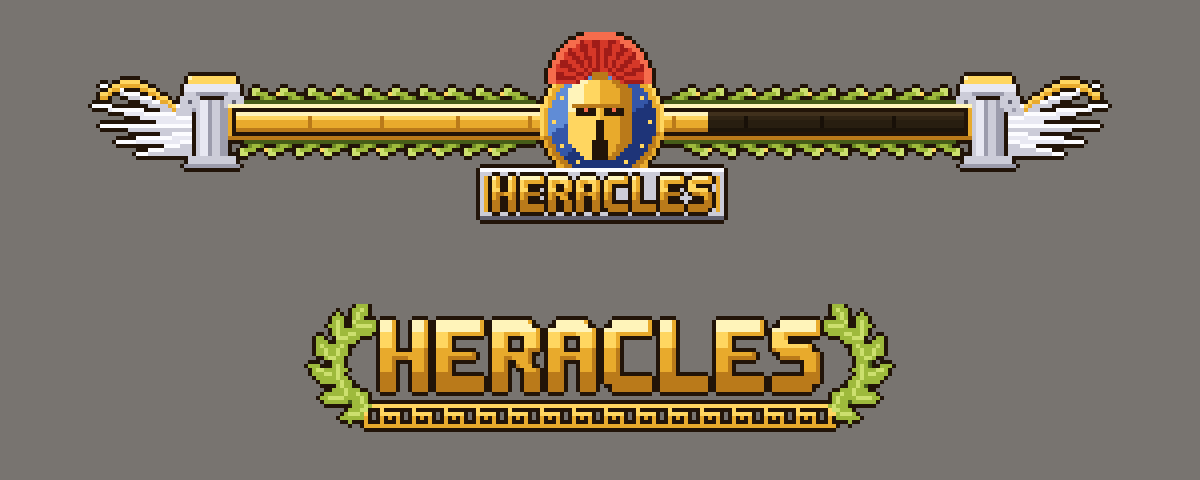
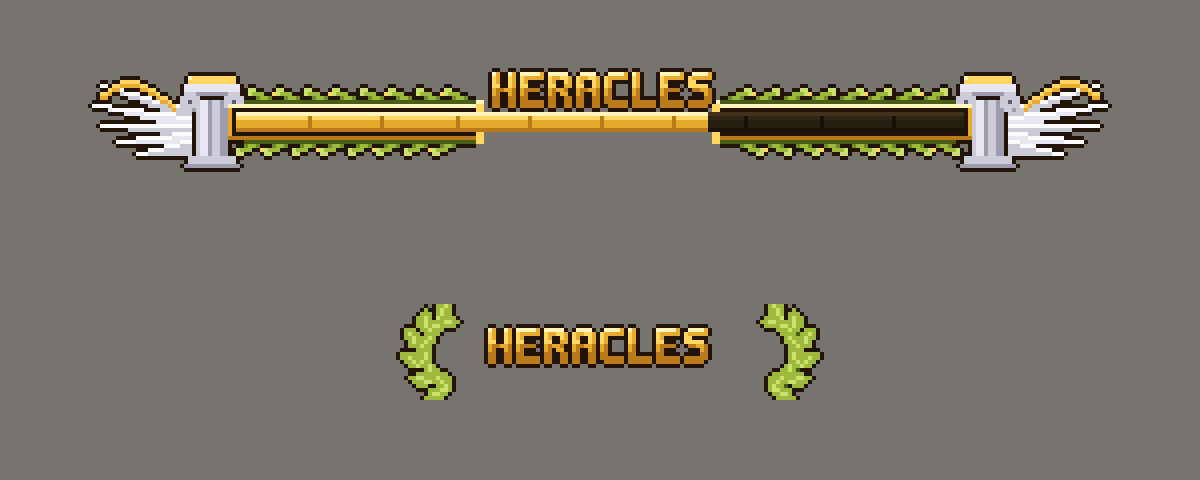
Heracles funciona con y sin texturas; apariciones mas largas
Sin el resource pack la bossbar, el titulo y los sonidos son los de antes;
con el pack se ven el marco, los laureles y los sonidos propios.

- Bossbar: el titulo vuelve a ser &6&lHERACLES (Style SEGMENTED_10). Lleva
  delante \u200c y detras \u2001, que no se ven en vanilla; con el pack
  de ItemsAdder son las dos mitades del marco olimpico, a los lados del
  nombre. El marco ya no lleva escudo ni placa en el centro (ahi va el
  nombre) y la barra ya no tiene el hueco del centro
- Titulo de aparicion: vuelve a ser '⚔ HERACLES ⚔'; con el pack lleva
  laureles a los lados (\u2002 y \u2003)
- Sonidos: cada sonido propio va junto al sonido vanilla de antes. Sin pack
  se oye el de antes; con pack se oyen los dos
- Los titulos de aparicion de los 16 bosses duran 15 s (antes 6-9 s)

Changed region(s): [[0.2467, 0.625, 0.7708, 0.9062], [0.185, 0.0625, 0.6167, 0.4688]]

diff --git a/tools/generate_hud.py b/tools/generate_hud.py
@@ -2,18 +2,30 @@
 """
 Genera el HUD olimpico de Heracles (pixel art a 1x):
 
-  - bossbar_frame.png  marco de la bossbar (font image de ItemsAdder que va en
-                       el titulo de la bossbar y se dibuja ALREDEDOR de la barra)
-  - title_logo.png     logo "HERACLES" para el titulo en pantalla
+  - bossbar_left.png / bossbar_right.png   las dos mitades del marco de la
+                       bossbar (font images de ItemsAdder)
+  - title_laurel_left.png / title_laurel_right.png   laureles del titulo
   - yellow_progress.png / yellow_background.png  barra vanilla (182x5)
   - preview/hud_preview.png  vista previa
 
+Funciona CON y SIN resource pack:
+  Titulo de la bossbar:  "&f\u200c&6&lHERACLES&f\u2001"
+  Titulo en pantalla:    "&f\u2002&6⚔ &e&lHERACLES &6⚔&f\u2003"
+  \u200c (ancho cero) y \u2001/\u2002/\u2003 (espacios) no se ven en vanilla,
+  asi que SIN pack el texto se ve exactamente igual que antes. CON pack,
+  ItemsAdder convierte esos caracteres en imagenes: las dos mitades del marco
+  a los lados del nombre y los laureles a los lados del titulo.
+
 Como encaja el marco con la barra (Minecraft 1.21):
-  la barra se dibuja en (centro - 91, y) y el titulo en y - 9, centrado.
-  Un glyph con ascent A se dibuja con su borde superior en y - 2 - A.
-  El hueco de la barra esta en la fila BAR_Y del png -> A = BAR_Y - 2.
-  El png mide FRAME_W (par) y el glyph avanza FRAME_W + 1, asi que el hueco
-  empieza en x = (FRAME_W - 182) / 2.
+  la barra se dibuja en (centro - 91, y) y el titulo en y - 9, centrado
+  (x = centro - ancho/2). Un glyph con ascent A se dibuja con su borde
+  superior en y - 2 - A; el hueco de la barra esta en la fila BAR_Y del png
+  -> A = BAR_Y - 2. Un glyph avanza (ultima columna visible + 1) + 1, por eso
+  cada mitad lleva un pixel casi transparente en su ultima columna.
+  "HERACLES" en negrita mide TEXT_W = 8 x 7 = 56 px:
+    [mitad izq. 90 px, avanza 91][HERACLES 56][mitad der. 91 px, avanza 92]
+    total 239 -> empieza en centro - 119 = columna 0 del marco completo,
+    asi que la barra (columna BAR_X = 28) cae en centro - 91.
 
 Uso: python3 tools/generate_hud.py
 """
@@ -31,7 +43,10 @@ FRAME_W, FRAME_H = 256, 48
 BAR_W, BAR_H = 182, 5
 BAR_X = (FRAME_W - BAR_W) // 2      # 37
 BAR_Y = 20                           # -> y_position (ascent) = 18
-CX = FRAME_W // 2
+CX = BAR_X + BAR_W // 2              # 119: centro de la barra en el marco
+TEXT_W = 56                          # "&lHERACLES": 8 letras de 6 px + 1 de negrita
+LEFT_W = CX - TEXT_W // 2 - 1        # 90: columnas 0..89 -> mitad izquierda
+RIGHT_X = LEFT_W + 1 + TEXT_W        # 147: desde aqui -> mitad derecha
 SHIELD_R = 15
 
 # ----------------------------------------------------------------- paleta
@@ -306,63 +321,47 @@ def bossbar_frame():
     d.rectangle([x0 - 1, y0 - 1, x1 + 1, y1 + 1], fill=OUT)
     d.rectangle([x0, y0, x1, y1], fill=(0, 0, 0, 0))
 
-    # laureles desde el emblema hacia las columnas
-    laurel_branch(d, CX + 16, x1 - 1, y0 - 3, y1 + 3)
-    laurel_branch(d, CX - 17, x0 + 1, y0 - 3, y1 + 3)
-
-    # emblema: escudo + casco
-    shield(img, CX, y0 + 2, SHIELD_R)
-    helmet(img, CX, 0)
-
-    # placa de marmol con el nombre
-    pw, ph = 61, 13
-    px0, py0 = CX - pw // 2, FRAME_H - ph - 1
-    d.rectangle([px0, py0, px0 + pw - 1, py0 + ph - 1], fill=MARBLE[2] + (255,))
-    d.line([(px0, py0), (px0 + pw - 1, py0)], fill=MARBLE[4] + (255,))
-    d.line([(px0, py0 + ph - 1), (px0 + pw - 1, py0 + ph - 1)], fill=MARBLE[0] + (255,))
-    for xx in (px0 + 1, px0 + pw - 2):
-        d.line([(xx, py0 + 2), (xx, py0 + ph - 3)], fill=GOLD[2] + (255,))
+    # laureles desde el nombre hacia las columnas
+    laurel_branch(d, RIGHT_X + 2, x1 - 1, y0 - 3, y1 + 3)
+    laurel_branch(d, LEFT_W - 3, x0 + 1, y0 - 3, y1 + 3)
 
     outline(img)
-    # el contorno no debe invadir el hueco de la barra (salvo bajo el escudo,
-    # que tiene que quedar opaco)
-    d.rectangle([x0, y0, CX - SHIELD_R - 1, y1], fill=(0, 0, 0, 0))
-    d.rectangle([CX + SHIELD_R + 1, y0, x1, y1], fill=(0, 0, 0, 0))
-    paste_text(img, "HERACLES", CX - 27, py0 + 2)
+    # el contorno no debe invadir el hueco de la barra
+    d.rectangle([x0, y0, x1, y1], fill=(0, 0, 0, 0))
+    # hueco central para el nombre (lo escribe Minecraft) con remates dorados
+    d.rectangle([LEFT_W, 0, RIGHT_X - 1, FRAME_H - 1], fill=(0, 0, 0, 0))
+    for x in (LEFT_W - 2, RIGHT_X):
+        d.rectangle([x, y0 - 3, x + 1, y1 + 3], fill=GOLD[3] + (255,))
+        d.rectangle([x, y0 - 3, x + 1, y0 - 3], fill=GOLD[4] + (255,))
     return img
 
 
-def title_logo():
-    """Logo para title{} (se ve 4x mas grande en pantalla)."""
-    w, h = 176, 32
+def half(img, x0, x1):
+    """Recorta una mitad del marco y fija su ancho con un pixel casi invisible."""
+    out = img.crop((x0, 0, x1, img.height))
+    out.putpixel((out.width - 1, out.height - 1), (0, 0, 0, 1))
+    return out
+
+
+def laurel_side(side):
+    """Media corona de laurel para un lado del titulo (side -1 izq., 1 der.)."""
+    w, h = 24, 24
     img = Image.new("RGBA", (w, h))
     d = ImageDraw.Draw(img)
-    tw = 8 * 12 + 7 * 2
-    tx = (w - tw) // 2
-    # meandro debajo
-    for x in range(tx - 4, tx + tw + 4):
-        k = (x - tx) % 8
-        col = [5, 1, 1, 1, 5, 5, 5, 5][k]
-        for y in range(25, 31):
-            on = y in (25, 30) or (k == 0) or (k == 4 and y > 26) or (y == 27 and k in (1, 2, 3, 4)) or (k == 2 and y == 28)
-            if on:
-                d.point((x, y), fill=GOLD[3 if y < 28 else 2] + (255,))
-    # media corona de laurel a cada lado: tallo en arco y hojas en pareja
-    for side in (-1, 1):
-        wx = w // 2 + side * (tw // 2 + 1)
-        R = 11
-        for i in range(40):
-            phi = math.radians(-75 + 150 * i / 39)
-            d.point((wx + side * round(R * math.cos(phi)), 15 + round(R * math.sin(phi))), fill=LEAF[0] + (255,))
-        for i in range(6):
-            phi = math.radians(-60 + 140 * i / 5)
-            x = wx + side * R * math.cos(phi)
-            y = 15 + R * math.sin(phi)
-            up = math.degrees(math.atan2(-math.cos(phi), side * math.sin(phi)))   # tangente hacia arriba
-            leaf_poly(d, x, y, up + side * 35, 7, 3)
-            leaf_poly(d, x, y, up - side * 35, 6, 3)
+    wx = w - 4 if side < 0 else 3
+    R = 9
+    for i in range(40):
+        phi = math.radians(-75 + 150 * i / 39)
+        d.point((wx + side * round(R * math.cos(phi)), 12 + round(R * math.sin(phi))), fill=LEAF[0] + (255,))
+    for i in range(6):
+        phi = math.radians(-60 + 140 * i / 5)
+        x = wx + side * R * math.cos(phi)
+        y = 12 + R * math.sin(phi)
+        up = math.degrees(math.atan2(-math.cos(phi), side * math.sin(phi)))
+        leaf_poly(d, x, y, up + side * 35, 6, 3)
+        leaf_poly(d, x, y, up - side * 35, 5, 3)
     outline(img)
-    paste_text(img, "HERACLES", tx, 4, scale=2)
+    img.putpixel((w - 1, h - 1), (0, 0, 0, 1))
     return img
 
 
@@ -380,12 +379,6 @@ def bar_sprites():
             sx = round(BAR_W * k / 10)
             for y in range(1, BAR_H - 1):
                 p[sx, y] = notch + (255,)
-        # hueco transparente bajo el escudo: Minecraft 1.21.6+ pinta la barra
-        # ENCIMA del titulo, asi que sin hueco la barra tapa el casco
-        gap = CX - BAR_X
-        for x in range(gap - SHIELD_R, gap + SHIELD_R + 1):
-            for y in range(BAR_H):
-                p[x, y] = (0, 0, 0, 0)
         return img
 
     return make(prog_rows, GOLD[1]), make(back_rows, (24, 16, 8))
@@ -394,22 +387,36 @@ def bar_sprites():
 def main():
     FONT_DIR.mkdir(parents=True, exist_ok=True)
     BAR_DIR.mkdir(parents=True, exist_ok=True)
-    frame, logo = bossbar_frame(), title_logo()
+    frame = bossbar_frame()
+    left, right = half(frame, 0, LEFT_W), half(frame, RIGHT_X, FRAME_W)
     prog, back = bar_sprites()
-    frame.save(FONT_DIR / "bossbar_frame.png")
-    logo.save(FONT_DIR / "title_logo.png")
+    left.save(FONT_DIR / "bossbar_left.png")
+    right.save(FONT_DIR / "bossbar_right.png")
+    laurel_side(-1).save(FONT_DIR / "title_laurel_left.png")
+    laurel_side(1).save(FONT_DIR / "title_laurel_right.png")
     prog.save(BAR_DIR / "yellow_progress.png")
     back.save(BAR_DIR / "yellow_background.png")
 
-    # vista previa (escala x4): bossbar al 65 % + logo
+    # comprobacion de la alineacion (ver docstring)
+    total = (left.width + 1) + TEXT_W + (right.width + 1)
+    assert -(total // 2) + BAR_X == -91, "el marco no cuadra con la barra"
+    assert left.width + 1 + TEXT_W == RIGHT_X, "la mitad derecha no empieza tras el nombre"
+
+    # vista previa (escala x4): bossbar al 65 % con el nombre + titulo
     sw = 300
     scene = Image.new("RGBA", (sw, 120), (120, 116, 112, 255))
-    fx = sw // 2 - FRAME_W // 2
-    bx = fx + BAR_X
-    scene.alpha_composite(frame, (fx, 8))
+    bx = sw // 2 - 91
+    fx = bx - BAR_X
+    scene.alpha_composite(left, (fx, 8))
+    scene.alpha_composite(right, (fx + RIGHT_X, 8))
     scene.alpha_composite(back, (bx, 8 + BAR_Y))
     scene.alpha_composite(prog.crop((0, 0, round(BAR_W * 0.65), BAR_H)), (bx, 8 + BAR_Y))
-    scene.alpha_composite(logo, (sw // 2 - logo.width // 2, 76))
+    paste_text(scene, "HERACLES", fx + LEFT_W + 2, 8 + BAR_Y - 10)     # lo que escribe Minecraft
+    tl, tr = laurel_side(-1), laurel_side(1)
+    tx = sw // 2 - 34
+    paste_text(scene, "HERACLES", tx + 6, 82)
+    scene.alpha_composite(tl, (tx - tl.width + 2, 76))
+    scene.alpha_composite(tr, (tx + 72, 76))
     scene.resize((sw * 4, 120 * 4), Image.NEAREST).save(PREVIEW)
     print("OK")
 
